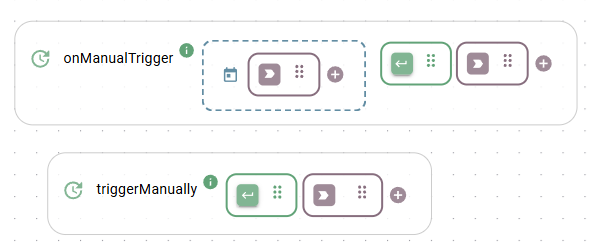
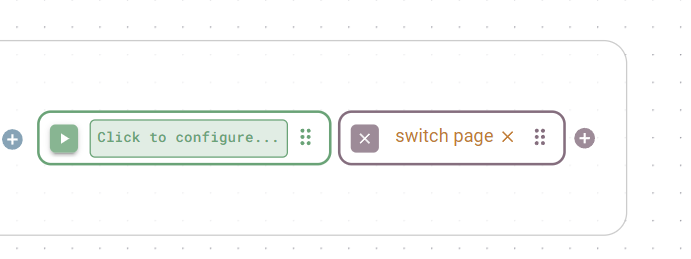
GITBOOK-1097: No subject

diff --git a/app-builder/build-frontend/page-explorer.md b/app-builder/build-frontend/page-explorer.md
@@ -4,7 +4,7 @@ Pages are the individual screens that organize your App's functionality. Heisenw
 
 Open the Page Explorer by clicking the navigator icon (<i class="fa-location-arrow-up">:location-arrow-up:</i>) on the left panel.
 
-<figure><img src="../../.gitbook/assets/image (10).png" alt=""><figcaption></figcaption></figure>
+<figure><img src="../../.gitbook/assets/Screenshot 2026-07-08 211358.png" alt=""><figcaption></figcaption></figure>
 
 ## Managing your App structure
 
@@ -17,8 +17,6 @@ Open the Page Explorer by clicking the navigator icon (<i class="fa-location-arr
 
 * **Add/duplicate**: Right-click any Page in the panel to create a new Page, a Subpage, or to duplicate an existing Page.
 * **Delete**: Right-click any Page and click delete. The first Page in your App cannot be deleted.
-
-<figure><img src="../../.gitbook/assets/image (11).png" alt=""><figcaption></figcaption></figure>
 
 ### Reordering Pages
 
@@ -47,11 +45,13 @@ The App menu is the navigation Users see across all Pages and Subpages. To confi
 * **Expandable Menu Drawer**: A classic burger menu that opens and closes.
 * **Fixed Left Menu**: A permanent side menu on the left.
 
+<figure><img src="../../.gitbook/assets/Screenshot 2026-07-08 212421.png" alt=""><figcaption></figcaption></figure>
+
 ### Per-screen menu type
 
 Enable **Different navigation menus per screen** in the App menu settings to give each activated screen size its own menu type. Fixed Left Menu is often a good choice for large screens, while Bottom Tabs Only or Expandable Menu Drawer works well on smaller screens. Switch to the screen size you want to configure in the Frontend Builder, then set the menu type.
 
-<figure><img src="../../.gitbook/assets/image (12).png" alt=""><figcaption></figcaption></figure>
+<figure><img src="../../.gitbook/assets/image (20).png" alt=""><figcaption><p>Different menu per screen</p></figcaption></figure>
 
 ## Other ways to switch Pages
 
@@ -68,6 +68,8 @@ Page switching can also be triggered automatically by your backend logic.
 
 * **How to link**: Drag a Page from the Page Explorer onto a Function's Output.
 * **Use case**: If a Function detects an error or a successful form submission, the backend pushes the User to an error or success Page automatically.
+
+<figure><img src="../../.gitbook/assets/image (32).png" alt=""><figcaption><p>Switch page link</p></figcaption></figure>
 
 {% hint style="info" %}
 If you need more vertical space on a Page, use the page height setting in the [Frontend Builder Toolbar](./#the-toolbar).

diff --git a/app-builder/build-frontend/README.md b/app-builder/build-frontend/README.md
@@ -20,16 +20,16 @@ The Frontend Builder is where you turn backend logic into a functional, user-fac
 
 You can build Apps for any screen size and switch the preview during the build process to make sure your layout works on everything from a smartphone to a large desktop monitor.
 
-### The toolbar
+### The Toolbar
 
-The toolbar is your primary toolkit for composing the interface. It holds buttons and icons to:
+The Toolbar is your primary toolkit for composing the interface. It holds buttons and icons to:
 
 * Add a text box, icon, or Widget (input, trigger, display).
 * Switch the screen preview.
 * Extend page height (enable scrolling) and scale the view.
 * Edit or delete the selected Widget. These icons (pen and trash) are only active when a Widget or UI element is selected.
 
-<figure><img src="../../.gitbook/assets/image (515).png" alt=""><figcaption></figcaption></figure>
+<figure><img src="../../.gitbook/assets/image (27).png" alt=""><figcaption></figcaption></figure>
 
 ### Placing and moving elements
 
